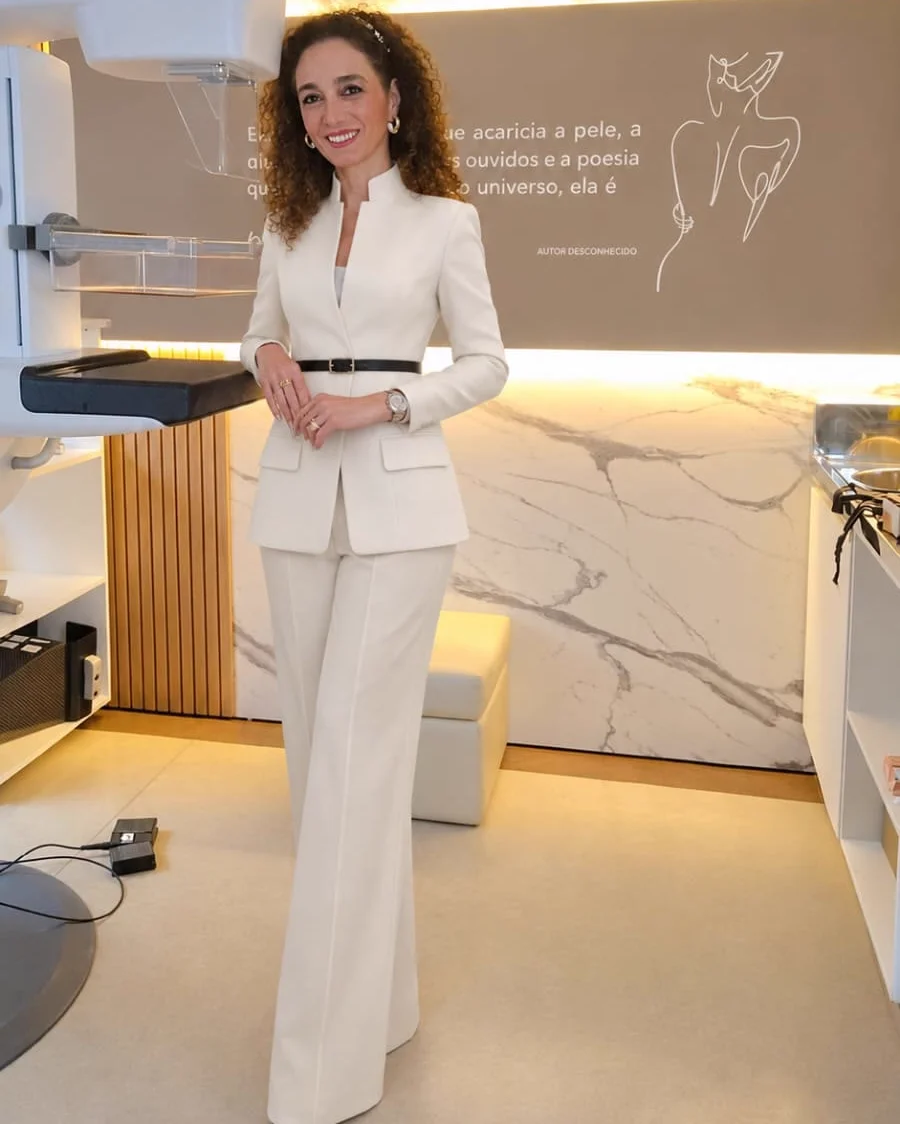
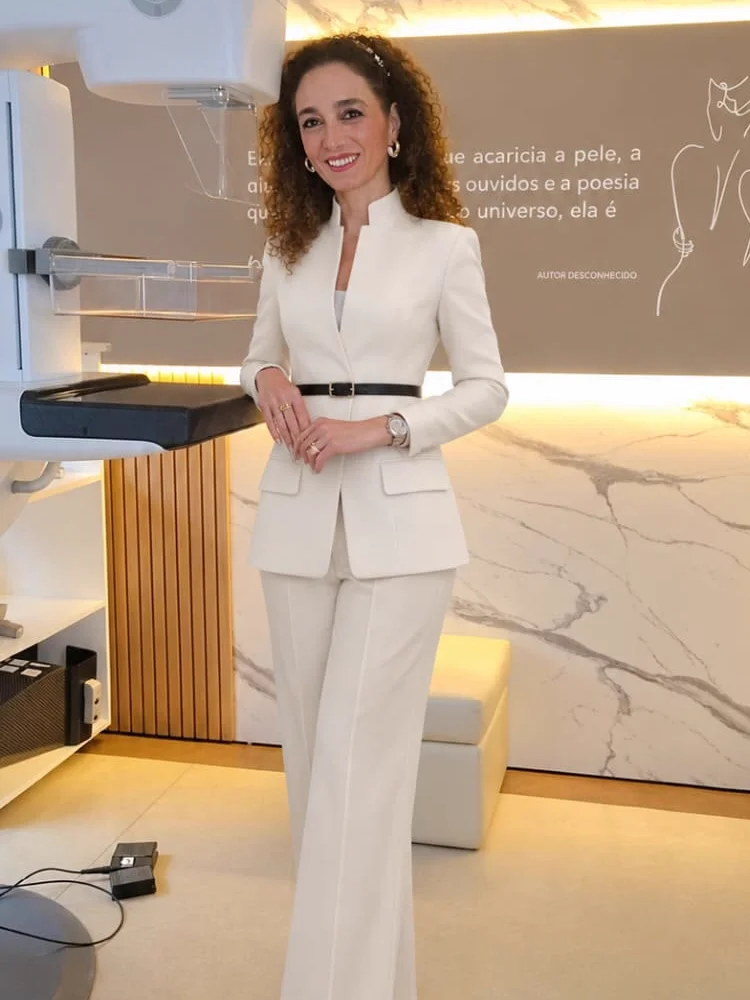
Centraliza ela na foto da capa

diff --git a/assets/css/style.css b/assets/css/style.css
@@ -347,9 +347,9 @@ p { margin: 0 0 1em; }
 }
 .hero-photo img {
   width: 100%;
-  aspect-ratio: 4 / 5;
+  aspect-ratio: 3 / 4;
   object-fit: cover;
-  object-position: 50% 10%;
+  object-position: 50% 50%;
   border-radius: 32px;
   box-shadow: var(--shadow);
 }
@@ -913,7 +913,7 @@ p { margin: 0 0 1em; }
   .hero-grid { grid-template-columns: 1fr; gap: 72px; }
   .hero-copy { text-align: left; }
   .hero-photo { order: -1; justify-self: start; width: calc(100% - 28px); }
-  .hero-photo img { aspect-ratio: 4 / 5; object-position: 50% 10%; }
+  .hero-photo img { aspect-ratio: 3 / 4; object-position: 50% 50%; }
 
   .about-grid,
   .formacao-grid,

diff --git a/en/index.html b/en/index.html
@@ -155,7 +155,7 @@
         </div>
 
         <figure class="hero-photo reveal" style="--d:.12s">
-          <img src="../assets/img/retrato-conjunto.webp" width="900" height="1124" fetchpriority="high"
+          <img src="../assets/img/retrato-conjunto.webp" width="750" height="1000" fetchpriority="high"
                alt="Dr. Cristina Marques Barreto smiling, in a white suit, next to the mammography unit">
         </figure>
       </div>

diff --git a/es/index.html b/es/index.html
@@ -155,7 +155,7 @@
         </div>
 
         <figure class="hero-photo reveal" style="--d:.12s">
-          <img src="../assets/img/retrato-conjunto.webp" width="900" height="1124" fetchpriority="high"
+          <img src="../assets/img/retrato-conjunto.webp" width="750" height="1000" fetchpriority="high"
                alt="Dra. Cristina Marques Barreto sonriendo, con traje blanco, junto al mamógrafo">
         </figure>
       </div>

diff --git a/index.html b/index.html
@@ -155,7 +155,7 @@
         </div>
 
         <figure class="hero-photo reveal" style="--d:.12s">
-          <img src="assets/img/retrato-conjunto.webp" width="900" height="1124" fetchpriority="high"
+          <img src="assets/img/retrato-conjunto.webp" width="750" height="1000" fetchpriority="high"
                alt="Dra. Cristina Marques Barreto sorrindo, de conjunto branco, ao lado do mamógrafo">
         </figure>
       </div>
